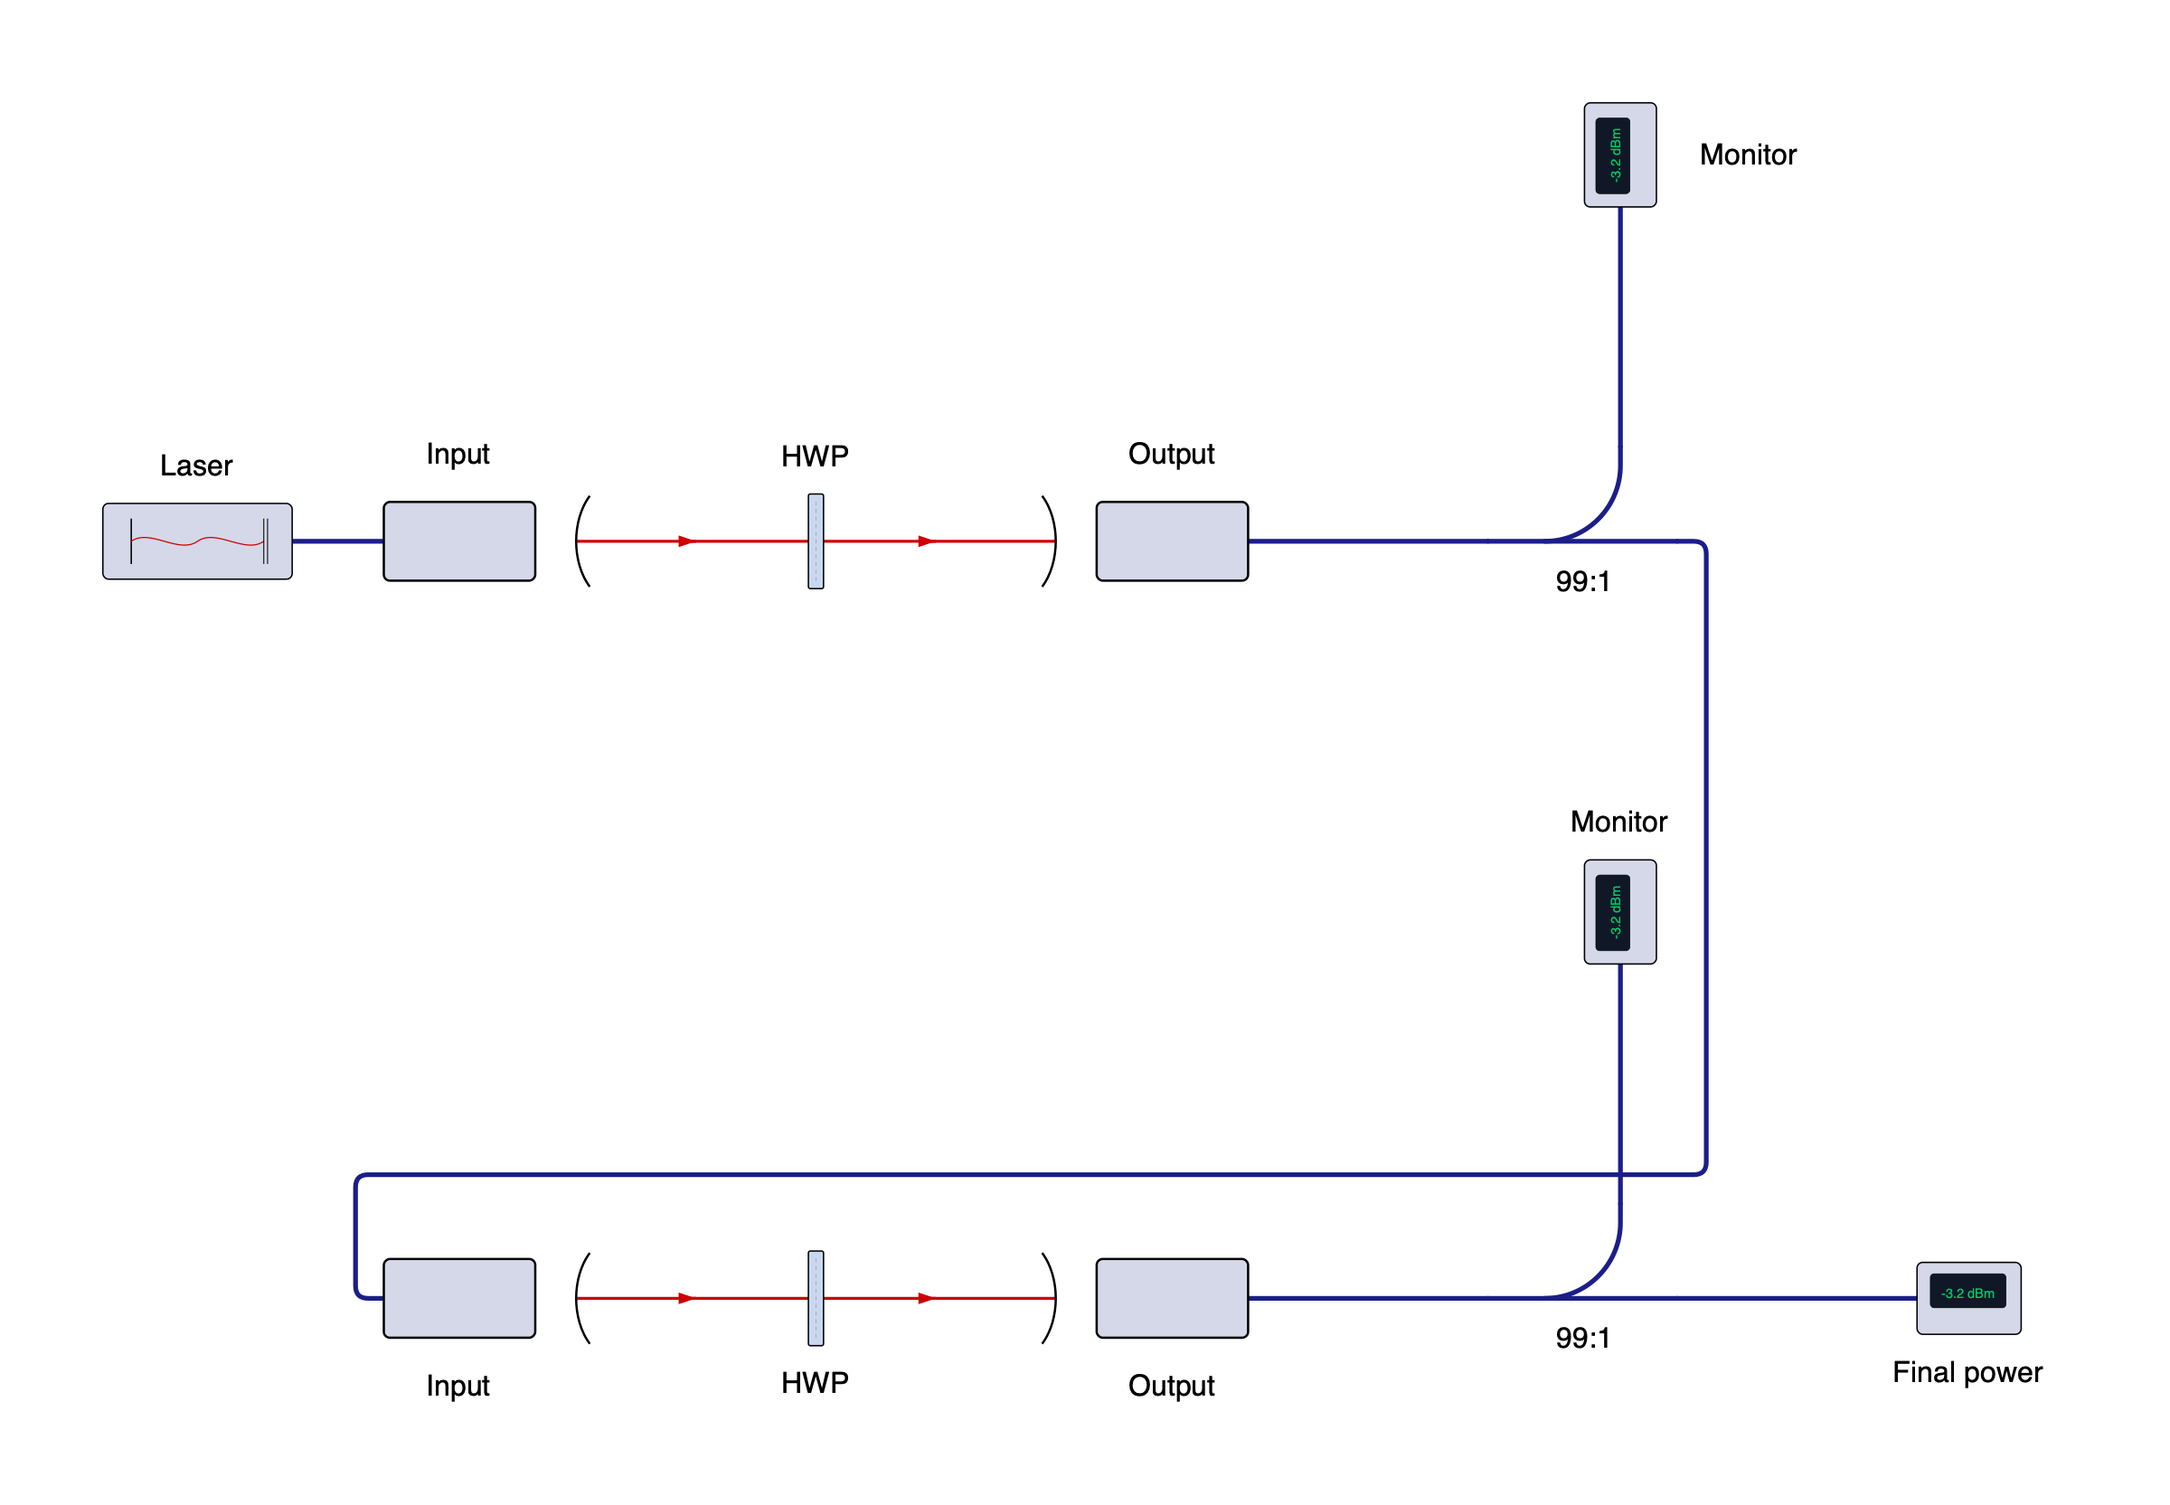
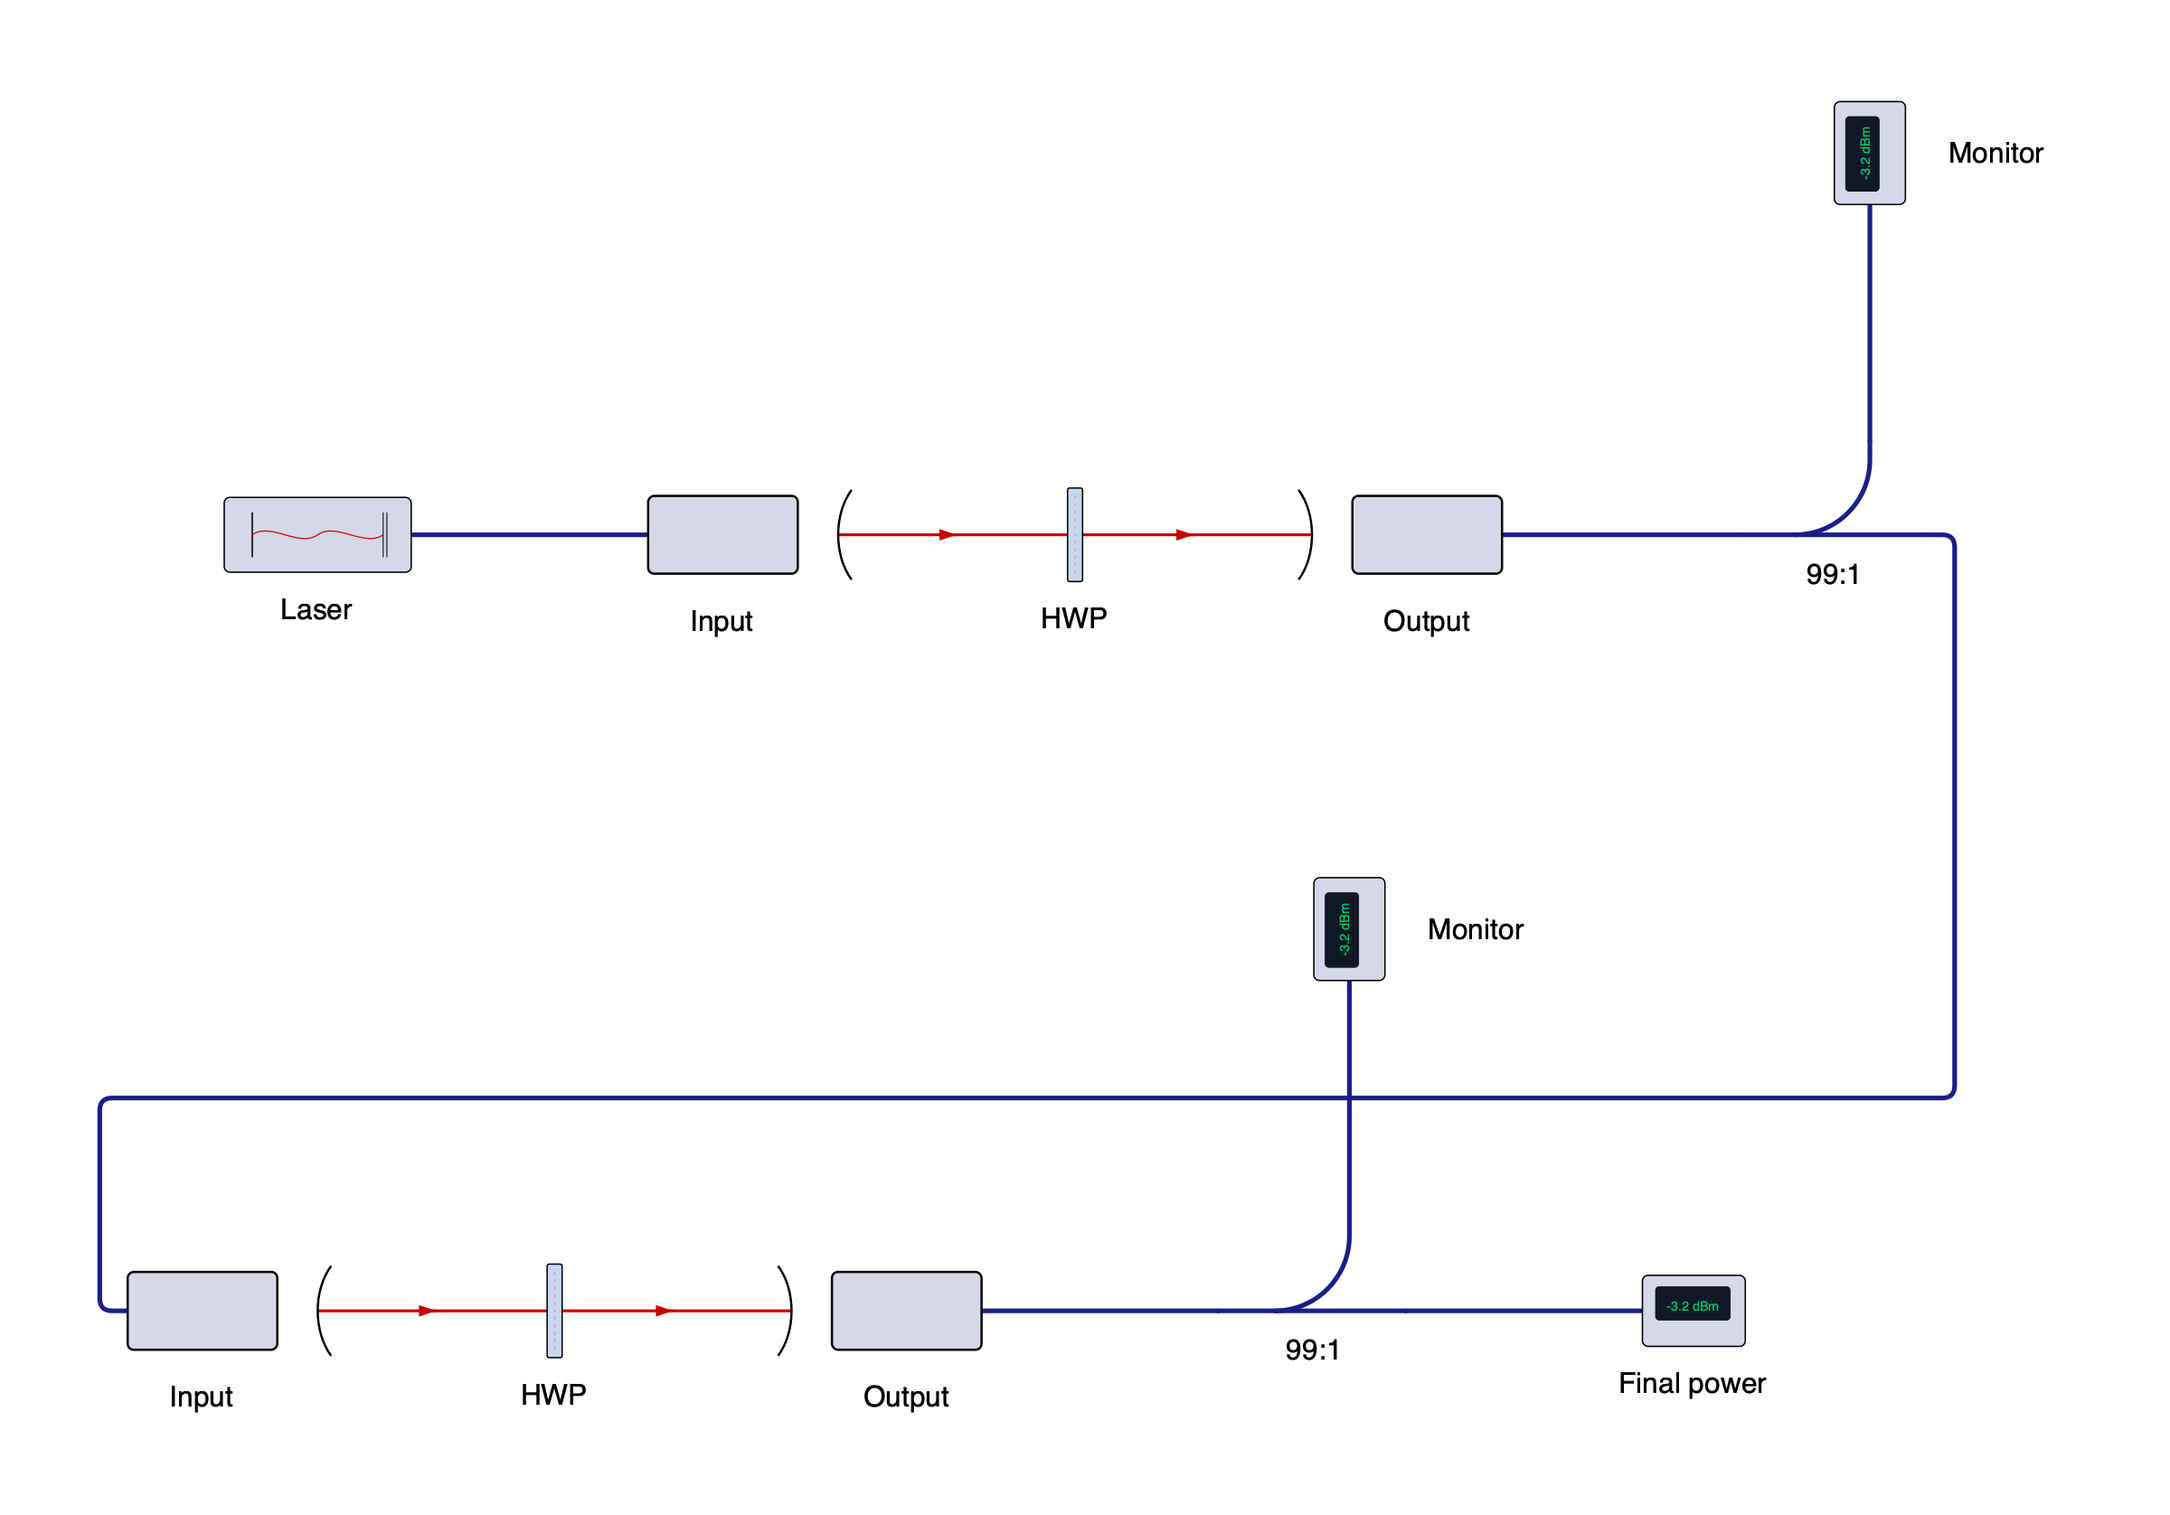
Document row composition and verify content-aware spacing

diff --git a/tests/test_rows.py b/tests/test_rows.py
@@ -4,7 +4,7 @@ from dataclasses import replace
 import pytest
 
 from beampath import (
-    ComponentError, ConnectionError, HWP, OpticRef, Setup, Style, beam,
+    ComponentError, ConnectionError, HWP, LayoutError, OpticRef, Style, beam,
     fiber_coupler, fiber_laser, fiber_launch, fiber_power_meter, fiber_splitter,
     inline_power_meter, iris, rows,
 )
@@ -55,7 +55,7 @@ def assert_clear(layout):
 
 
 @pytest.mark.parametrize("count", [2, 3])
-@pytest.mark.parametrize("gap", [None, 90, 320])
+@pytest.mark.parametrize("gap", [None, 1, 90, 320])
 def test_rows_align_entries_and_clear_all_stage_content(count, gap):
     sources = [stage(f"Stage {i}", origin=(80 + i * 130, 60 - i * 100)) for i in range(count)]
     before = [snapshot(source) for source in sources]
@@ -90,6 +90,7 @@ def test_style_is_resolved_late_and_canvas_margin_does_not_space_rows():
     assert padded.fibers == standard.fibers
     assert padded.bounds == pytest.approx((standard.bounds[0] - 100, standard.bounds[1] - 100,
                                          standard.bounds[2] + 100, standard.bounds[3] + 100))
+    assert result.layout(style=replace(standard.style, margin=1e10)).placements == standard.placements
     assert snapshot(result) == before
     assert_clear(bigger)
 
@@ -114,6 +115,8 @@ def test_nested_rows_keep_inner_gap_and_are_reusable_with_local_pins():
     layout = outer.layout()
     a, b = outer.setup._layout_groups[0].children
     assert content_bounds(layout, b.members)[1] - content_bounds(layout, a.members)[3] == pytest.approx(310)
+    inner_a, inner_b = a.children[0].children
+    assert content_bounds(layout, inner_b.members)[1] - content_bounds(layout, inner_a.members)[3] == pytest.approx(95)
     assert layout.placements["optic-002"].position[0] - layout.placements["optic-001"].position[0] == (
         pytest.approx(350))
     # Embedding translates the whole arrangement, including all local pins.
@@ -201,6 +204,15 @@ def test_grouped_first_row_can_attach_to_a_free_space_receiver():
     boundary = next(segment for segment in layout.segments if segment.id == "segment-001")
     assert boundary.length == pytest.approx(420)
     assert_clear(layout)
+
+
+def test_incompatible_group_pins_cannot_silently_overlap_labels():
+    split = fiber_laser() >> fiber_splitter()
+    meter = rows(beam() >> fiber_power_meter("A long label " * 6))
+    split.straight().append(meter, at=(0, 600))
+    split.turn().append(meter, at=(150, 600))
+    with pytest.raises(LayoutError, match="stage labels overlap"):
+        split.layout()
 
 
 @pytest.mark.parametrize("case", ["no_stages", "non_path", "free_space", "wrong_input", "terminal",

diff --git a/src/beampath/group_layout.py b/src/beampath/group_layout.py
@@ -6,7 +6,9 @@ from dataclasses import replace
 from .errors import LayoutError
 from .fiber_layout import _open_fibers, _orient_fiber_components, _place, _validate
 from .geometry import add, overlap, translated
-from .layout import Layout, Segment, _assemble_layout, _beam_segments, _labels, segment_intersects
+from .layout import (
+    Layout, Segment, _assemble_layout, _beam_segments, _content_bounds, _labels, segment_intersects,
+)
 from .model import Root, Setup
 from .routing import center_route, connector_lead, inflate, route_connection
 
@@ -65,7 +67,9 @@ def _finish(setup, placements, style, children=()):
         labels = _labels(placements, segments + reserved + leads, style, fixed_labels, exclusions)
         fibers = [fixed_fibers[edge.id] if edge.id in fixed_fibers
                   else route_connection(edge, placements, style, labels) for edge in edges] + opens
-    for label in labels:
+    for index, label in enumerate(labels):
+        if any(overlap(label.bounds, other.bounds, 3) for other in labels[index + 1:]):
+            raise LayoutError(f"{label.optic}: stage labels overlap")
         if any(overlap(label.bounds, p.bounds, 3) for p in placements.values()):
             raise LayoutError(f"{label.optic}: stage label overlaps component artwork")
         if any(segment_intersects(s.start, s.end, label.bounds) for s in segments):
@@ -112,16 +116,18 @@ def _group(setup, group, style):
     for child in group.children:
         measured = _group(setup, child, style)
         entry = measured.placements[child.entry].position
+        bounds = _content_bounds(measured.placements, measured.segments, measured.labels, measured.fibers)
         if entry_x is None:
             entry_x = entry[0]
         else:
-            # Layout.bounds includes the outer canvas margin; it is not part
-            # of a stage's content and must not affect row spacing.
-            delta = entry_x - entry[0], bottom + gap - (measured.bounds[1] + style.margin)
+            # Measure content directly: subtracting a potentially large canvas
+            # margin back out of Layout.bounds would introduce roundoff here.
+            delta = entry_x - entry[0], bottom + gap - bounds[1]
             measured = _translate(measured, delta)
+            bounds = translated(bounds, delta)
         children.append(measured)
         placements.update(measured.placements)
-        bottom = measured.bounds[3] - style.margin
+        bottom = bounds[3]
     return _finish(setup, placements, style, children)
 
 

diff --git a/src/beampath/layout.py b/src/beampath/layout.py
@@ -426,7 +426,7 @@ def _beam_segments(setup, placements, style):
     return segments
 
 
-def _assemble_layout(placements, segments, labels, style, fibers=()):
+def _content_bounds(placements, segments, labels, fibers=()):
     points = []
     for bounds in [p.bounds for p in placements.values()] + [label.bounds for label in labels]:
         points.extend(((bounds[0], bounds[1]), (bounds[2], bounds[3])))
@@ -434,6 +434,10 @@ def _assemble_layout(placements, segments, labels, style, fibers=()):
         points.extend((segment.start, segment.end))
     for route in fibers:
         points.extend(route.points)
-    x0, y0, x1, y1 = envelope(points)
+    return envelope(points)
+
+
+def _assemble_layout(placements, segments, labels, style, fibers=()):
+    x0, y0, x1, y1 = _content_bounds(placements, segments, labels, fibers)
     bounds = x0 - style.margin, y0 - style.margin, x1 + style.margin, y1 + style.margin
     return Layout(placements, tuple(segments), labels, bounds, style, tuple(fibers))

diff --git a/examples/composition.py b/examples/composition.py
@@ -1,6 +1,6 @@
 """Render a branched stage independently and insert two copies into a setup."""
 # DOCS:BEGIN
-from beampath import beam
+from beampath import rows
 from beampath.components import *
 
 
@@ -16,12 +16,11 @@ from beampath.examples import run_example
 
 
 def build():
-    """Connect two independently positioned copies, including their monitors."""
+    """Connect two stages as rows, including their monitor branches."""
     # DOCS:BEGIN
     stage = build_stage()
-    setup = beam() >> fiber_laser("Laser")
-    setup.append(stage, at=(300, 0))
-    setup.append(stage, at=(300, 600))
+    cleanup = fiber_laser("Laser") >> stage
+    setup = rows(cleanup, stage)
     setup >> fiber_power_meter("Final power")
     # DOCS:END
     return setup

diff --git a/src/beampath/model.py b/src/beampath/model.py
@@ -159,7 +159,7 @@ class Setup:
 
     def _inherit_group(self, upstream: str | None, members: frozenset[str],
                        children: tuple[_LayoutGroup, ...] = ()):
-        if any(upstream in group.members for group in self._layout_groups):
+        if upstream is not None and any(upstream in group.members for group in self._layout_groups):
             self._layout_groups = tuple(group.extend(upstream, members, children)
                                         for group in self._layout_groups)
         else:

diff --git a/docs/reference.md b/docs/reference.md
@@ -145,7 +145,7 @@ check wavelength, polarization, or temporal mode matching.
 
 ## Paths and shared optics
 
-Import `Setup`, `beam`, and `chain` from `beampath`.
+Import `Setup`, `beam`, `chain`, and `rows` from `beampath`.
 
 | Operation | Effect |
 |---|---|
@@ -154,6 +154,7 @@ Import `Setup`, `beam`, and `chain` from `beampath`.
 | `path >> spec` / `path >>= spec` | Append a component, chain, or copy of a built path's setup; advance the same cursor |
 | `path.append(spec, distance=None, at=None)` | Append with spacing or position constraints; return the same cursor |
 | `chain(*specs)` | Compose a reusable sequence of specifications |
+| `rows(*stages, gap=None)` | Copy and fiber-connect paths as vertically stacked stages; return the final path |
 | `path.out(name)` | Select an output with a separate cursor |
 | `.straight()` / `.reflect()` / `.turn()` | Shorthand for the corresponding named output |
 | `path.end` | Get a stable `OpticRef` for the current physical optic |
@@ -220,6 +221,40 @@ Internal distances are preserved.
 See [Composing stages](guide.md#composing-stages) for a runnable example with
 independent rendering and repeated insertion.
 
+### Rows of fiber-connected stages
+
+`rows(*stages: Path, gap=None)` creates a new setup containing independent
+copies of one or more stages. It preserves branches and shared optics inside
+each stage, leaves every source unchanged, and returns a normal `Path` at the
+last stage's copied endpoint. One argument produces a grouped copy.
+
+Each boundary connects the preceding stage's selected output to the next
+stage's root input. Both ports must be fiber. The same source requirements as
+[path copying](#copying-built-paths) apply. Intermediate stages must select an
+unused output; the final stage may end at a terminal or an output group. An
+inputless source, such as a laser, can appear only in the first stage.
+
+Rows run from top to bottom and align their entry optics' reference points
+along x. The first entry keeps its source origin; authored headings are
+preserved. Each stage's pins use its original local coordinates and translate
+with the row. Internal distances remain constrained. Later appends, including
+branches, extend the row containing their upstream optic; an `at=` on such an
+append uses that row's local coordinates.
+
+`gap` is a positive finite minimum clearance in diagram units; omission uses
+the `Style.pitch` supplied to rendering. Additional space is reserved for fiber
+connector clearance when needed. Layout measures artwork, labels, beams,
+internal fibers, and remaining open stubs before placing rows. Replaced stubs,
+inter-row fibers, and the canvas margin do not contribute to row spacing.
+Connecting fibers are routed around the combined drawing after placement.
+
+Arrangements are retained through copying and nesting. In
+`rows(rows(a, b, gap=100), c, gap=300)`, the inner pair stays together and the
+outer gap separates its complete content from `c`. Copy the result with `>>`
+or `.append(..., at=...)` using the usual entry-placement rules. Every render
+recomputes internal geometry and row spacing for its style; no preliminary
+`layout()` call is needed.
+
 ## Headings and angles
 
 Angles are degrees, clockwise positive: east = 0, south = 90, west = 180,
@@ -264,8 +299,9 @@ Fiber placement prefers straight runs. Routing prefers fewer bends, then shorter
 routes, avoiding artwork and labels. Pins remain fixed; layout may rotate fiber
 devices to align their connectors. Fiber lengths are drawing lengths, not
 physical cable lengths. Layout is deterministic but does not guarantee a global
-optimum or wrap long chains into rows. Labels are placed after components and
-do not expand component spacing.
+optimum or automatically wrap long chains. Use [rows](#rows-of-fiber-connected-stages)
+to choose stage boundaries explicitly. Labels are placed after components and
+do not expand component spacing within a stage; they do contribute to row spacing.
 
 Initial free-space inputs and open outputs receive stubs; unconnected fiber
 ports receive routed stubs at their attachments. Connecting a port replaces its

diff --git a/docs/guide.md b/docs/guide.md
@@ -133,13 +133,14 @@ and how constraints apply to a chain.
 ## Composing stages
 
 Build each stage with an ordinary function returning a path. Append that path
-with `>>` or `.append(stage, at=...)` to insert an independent copy of its whole
-setup, including branches and shared optics. Return the output cursor where
-the combined setup should continue:
+with `>>` to insert an independent copy of its whole setup, including branches
+and shared optics. Use `rows(first, second, ...)` to connect stages by fiber and
+stack them vertically, with their entry optics aligned. Return the output
+cursor where the combined setup should continue:
 
 <!-- DOCS:BEGIN composition -->
 ```python
-from beampath import beam
+from beampath import rows
 from beampath.components import *
 
 
@@ -152,9 +153,8 @@ def build_stage():
     return split.straight()
 
 stage = build_stage()
-setup = beam() >> fiber_laser("Laser")
-setup.append(stage, at=(300, 0))
-setup.append(stage, at=(300, 600))
+cleanup = fiber_laser("Laser") >> stage
+setup = rows(cleanup, stage)
 setup >> fiber_power_meter("Final power")
 stage.save("stage.svg")
 setup.save("composition.svg")
@@ -166,14 +166,21 @@ setup.save("composition.svg")
 Runnable example: [composition.py](../examples/composition.py).
 
 The original `stage` remains independently renderable after both insertions.
+`rows()` returns a normal path; the final power meter extends its last row.
+Row spacing includes monitor branches and labels and adapts to the rendering
+style. Set a minimum clear gap with `rows(cleanup, stage, gap=250)`. Nested rows
+keep their arrangements when copied into another setup.
+
 As with component appends, `setup` advances in place. Use `beam() >> stage` to
-start a fresh copy before making further edits. A stage ending at a splitter
-can return the splitter's output group instead, letting the caller choose
-`.straight()`, `.turn()`, or `.reflect()` after insertion.
+start a fresh copy before making further edits. A final stage ending at a
+splitter can return the output group, letting the caller choose `.straight()`,
+`.turn()`, or `.reflect()` after insertion.
 
 Stages need one initial beam root, with every optic connected to it. The
-combined diagram solves spacing and fiber routes together. `at=` pins the
-stage entry and translates its explicit pins; it does not freeze its layout.
+combined diagram solves spacing and fiber routes at render time. For explicit
+placement, `.append(stage, at=(x, y))` pins the stage entry and translates its
+explicit pins. In `rows()`, pins use each stage's local coordinates and move
+with that row.
 See the [composition reference](reference.md#copying-built-paths) for heading,
 positioning, and source requirements. `chain()` remains useful for reusable
 linear lists of component specifications.
